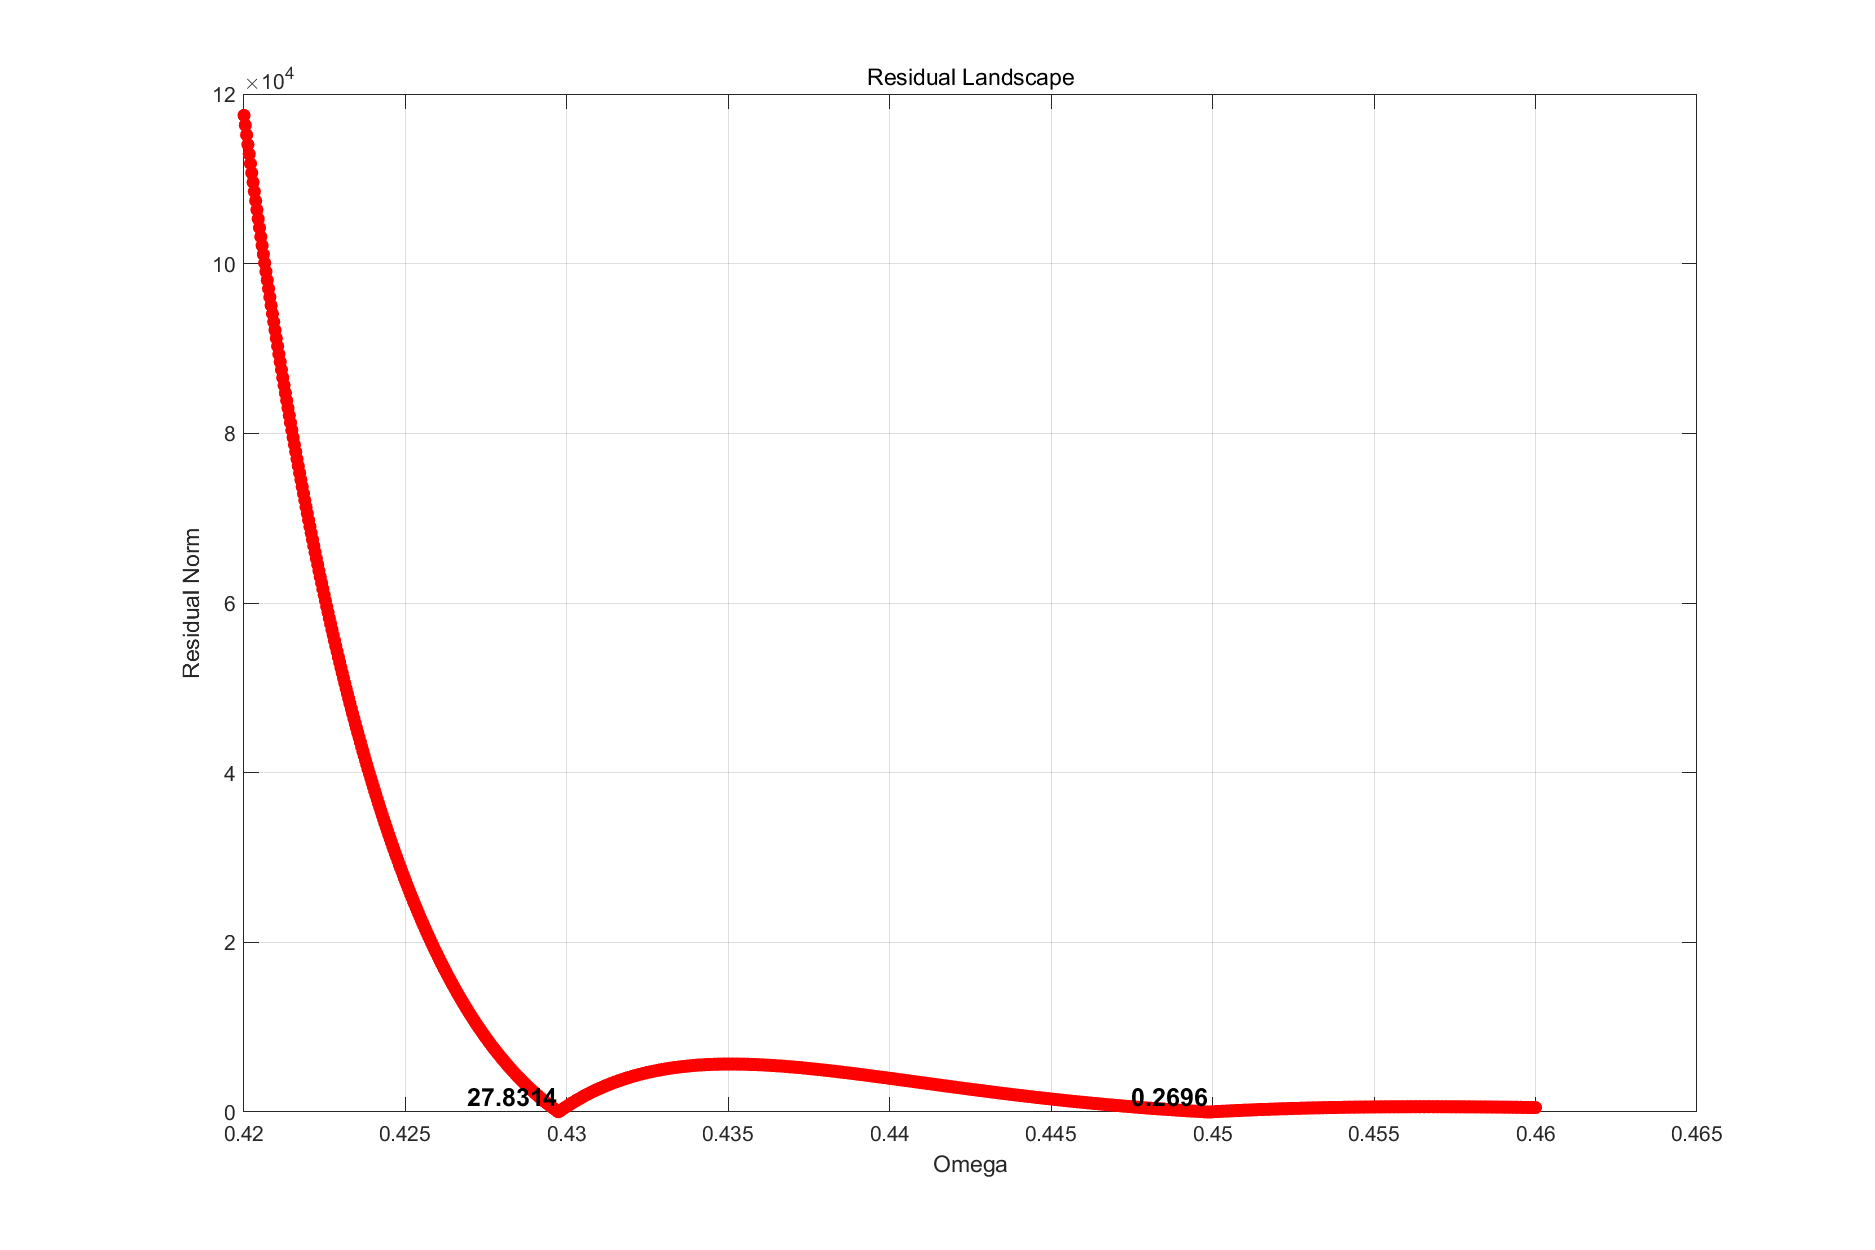
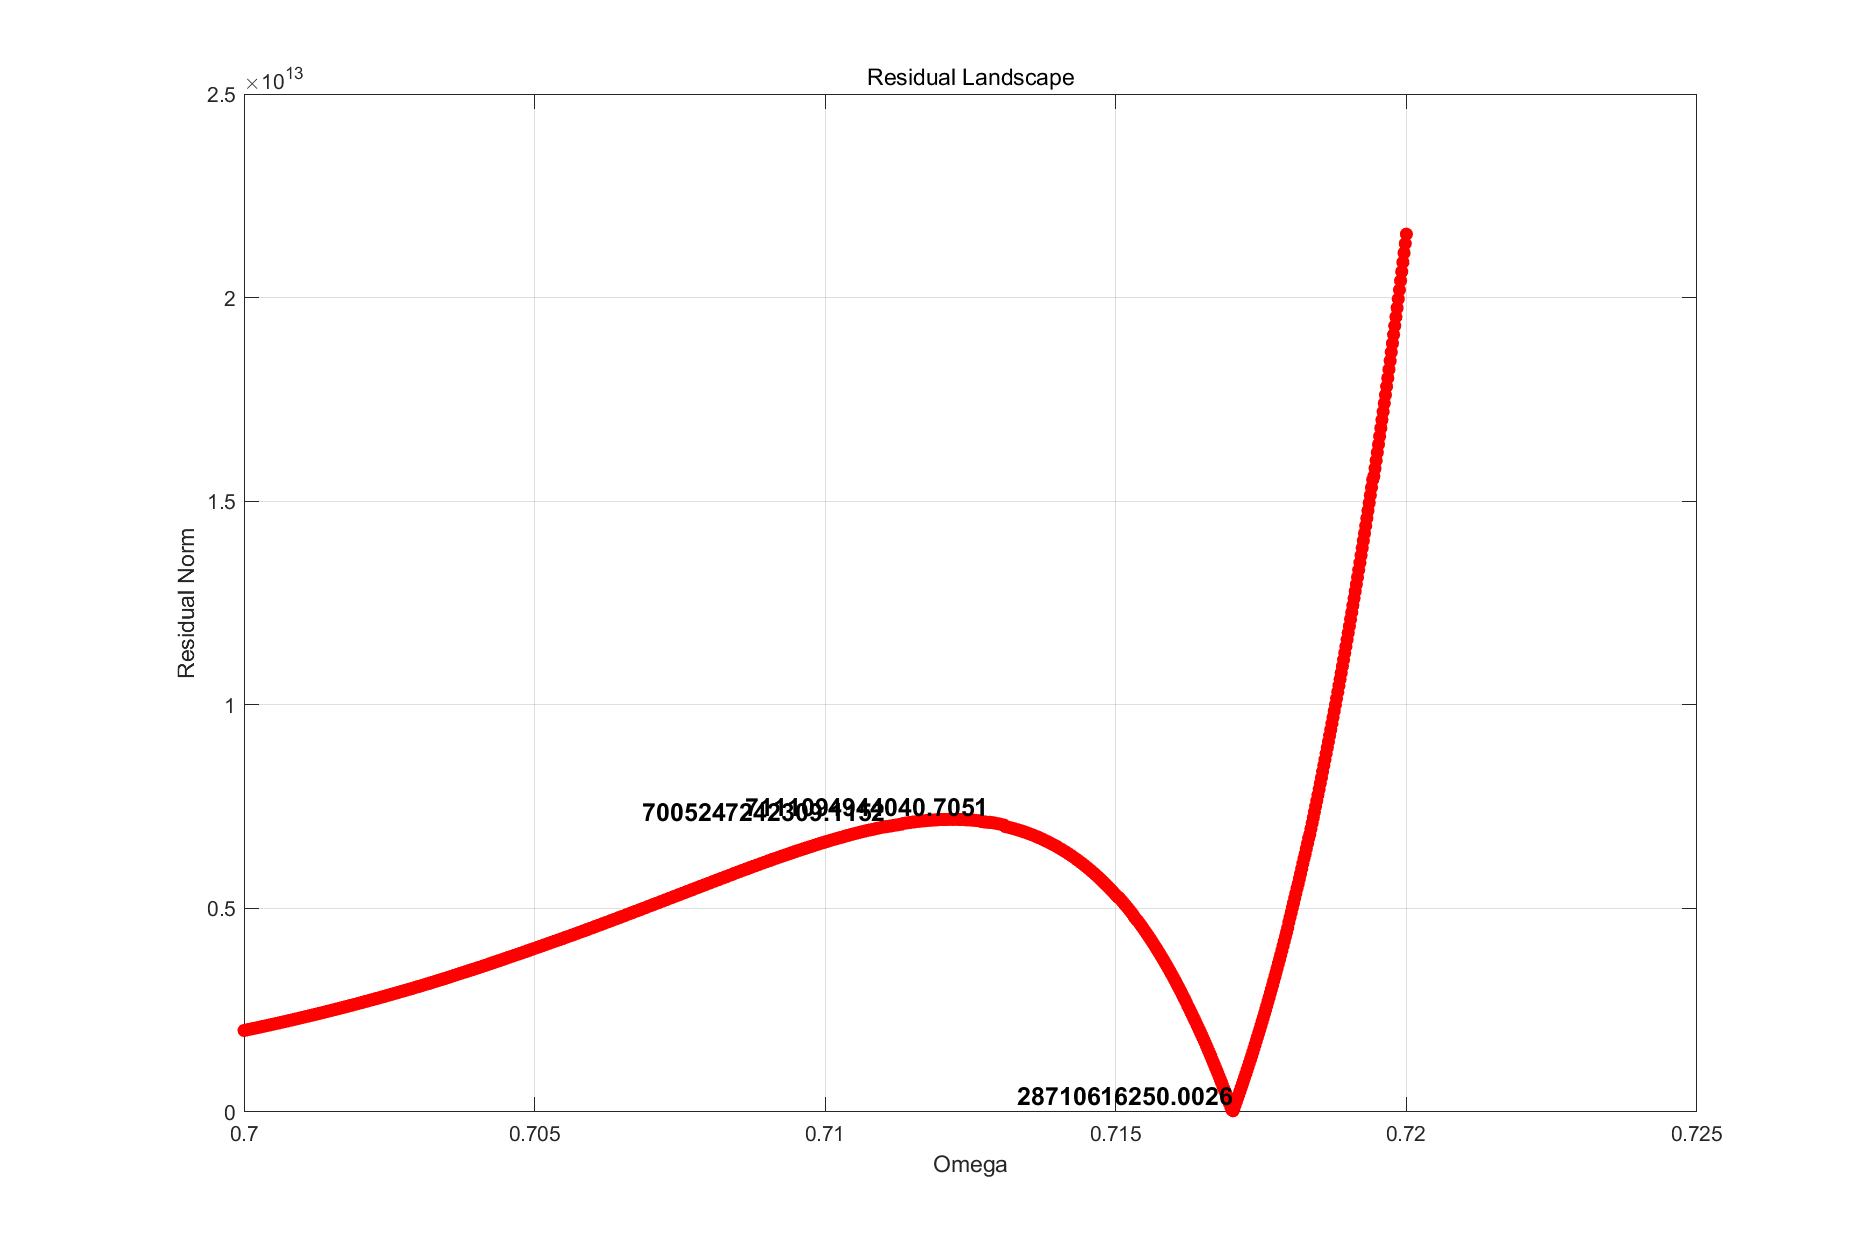
整体递增中出现极小值点，类比到复数域

diff --git a/matlab-solve/shootev_search2d.m b/matlab-solve/shootev_search2d.m
@@ -7,7 +7,7 @@ function shootev_search2d()
     end
 
     % 定义参数扫描范围
-    omg = linspace(0.42, 0.46, 1000);
+    omg = linspace(0.7, 0.72, 1000);
 
     % 将二维网格展平为一维数组以便并行处理
     omega_list = omg;
